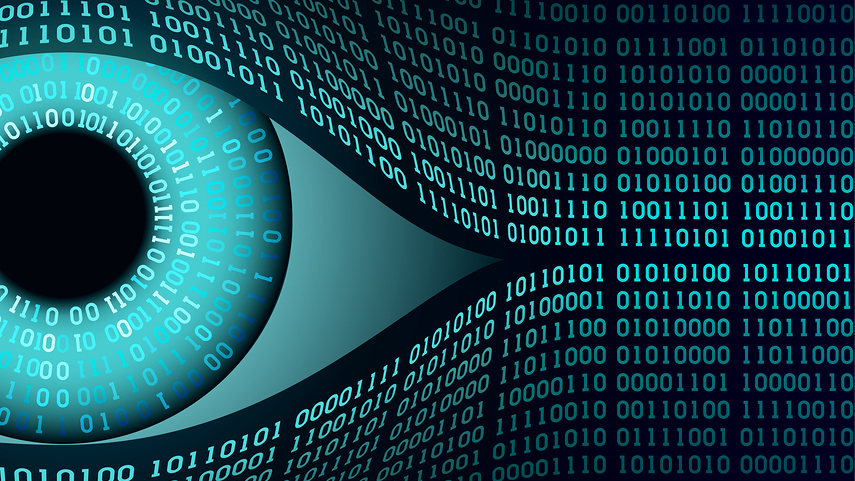
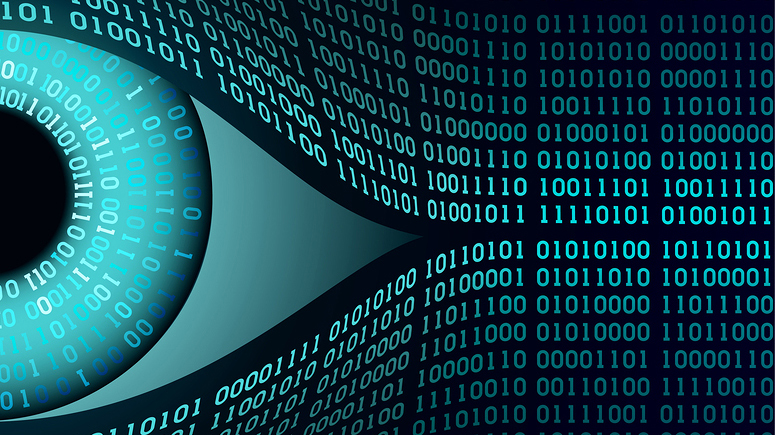
edited the background

diff --git a/index.html b/index.html
@@ -6,7 +6,7 @@
 -->
 <html>
 	<head>
-		<title>Spectral by HTML5 UP</title>
+		<title>BinaryClub</title>
 		<meta charset="utf-8" />
 		<meta name="viewport" content="width=device-width, initial-scale=1, user-scalable=no" />
 		<link rel="stylesheet" href="assets/css/main.css" />
@@ -41,10 +41,10 @@
 				<!-- Banner -->
 					<section id="banner">
 						<div class="inner">
-                            <img src="images/logo.png" width= "500" padding="0">
+                            <img src="images/logo.png" width= "250">
                             <p>&nbsp</p>
 
-							<h2>BINARY</h2>
+							<h2 style=opacity: 1>BINARY</h2>
                             <p>The Bridge from the ordinary<br />
                             to the extraordinary!<br /></p>
                                 <p>&nbsp</p>

diff --git a/assets/css/main.css b/assets/css/main.css
@@ -2633,8 +2633,7 @@ input, select, textarea {
 
 					.features li:first-child {
 						border-top: 0;
-					}
-
+                }
 			}
 
 /* Spotlight */
